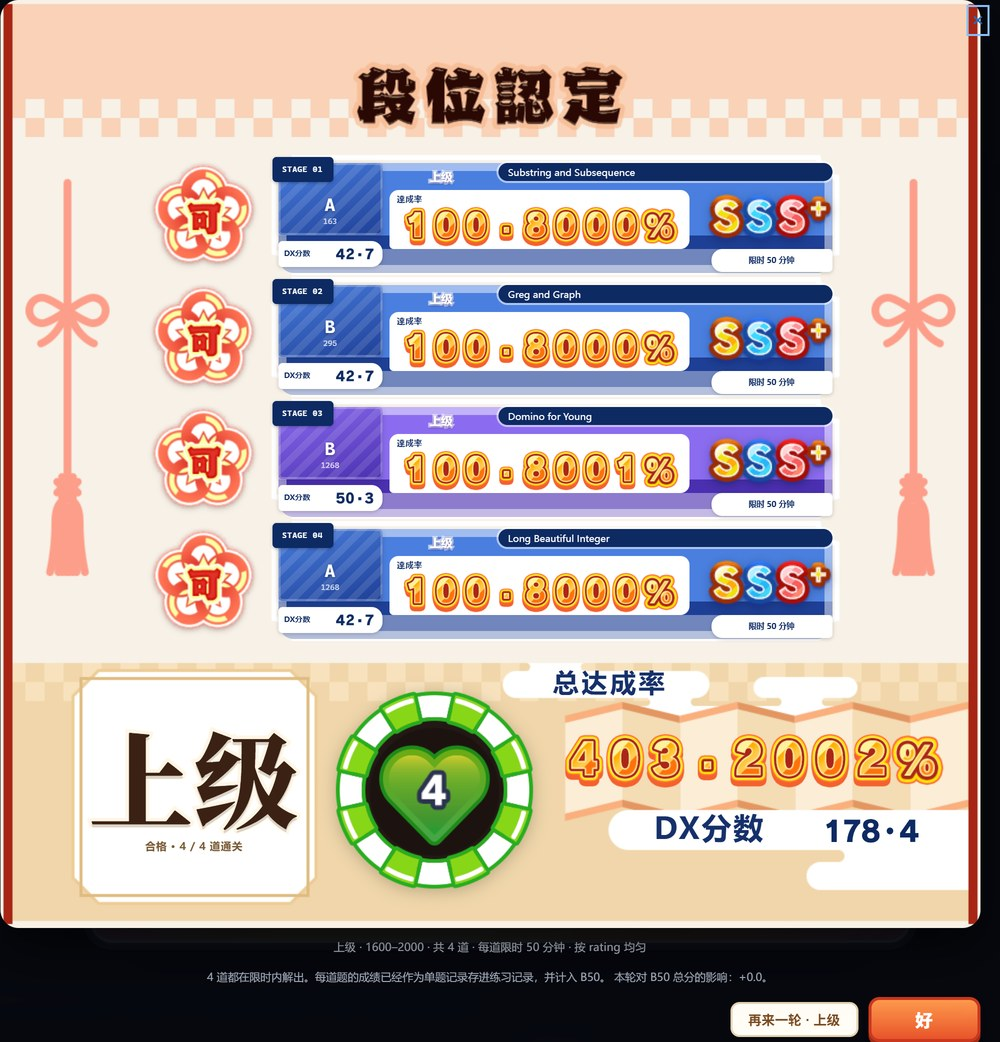
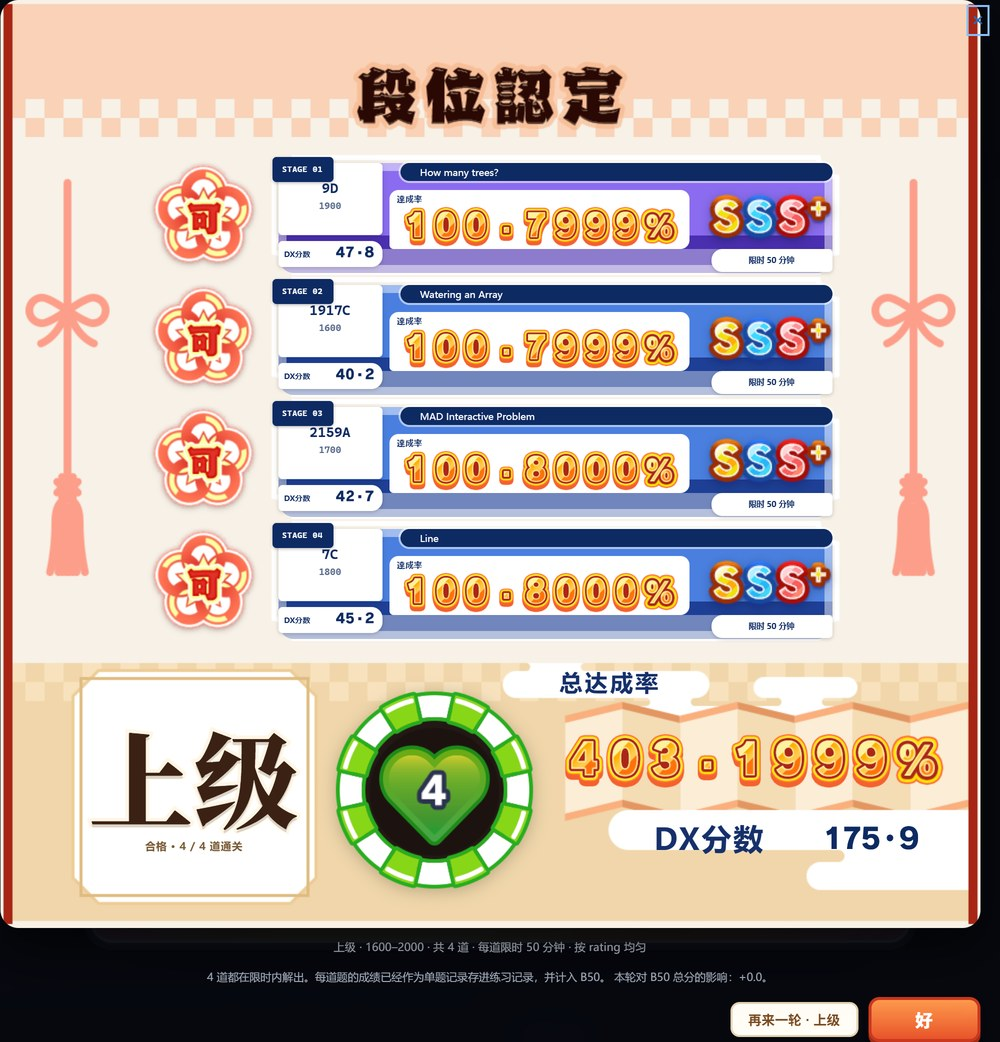
feat: rebuild the dan card the way the original is built
对着官方那张结算图把逐题卡重排了一遍：

- **删掉档位名牌**（原来写「上级」「初级」那一格）。官方那格烘的是难度名（`MASTER 大師`），
  我们这边对应的档位名在同一张卡上跟题号、达成率、单题 rating 重复，而且占掉半个标题条。
  标题条因此从 `x 220` 左移到 `x 122`、宽度 334→432，一路铺到边框右端（122+432=554）。
- **曲绘槽换成题号牌**：上行写完整题号（`1554C` = 场次 + 小问，原来只写一个小问字母，
  一屏四张卡看不出是哪道题），下行写这题在 CF 上的 rating（`dan_stages.difficulty`）。
  原来槽里是档位色渐变 + 斜条纹，一屏四张就是四块看不懂的色块 —— 现在就是一块白牌。
- **小数点**：白字族里根本没有句点这一格（`[13]` 是中黑点、`[12]` 是逗号），照它排出来就是
  「断字符」。改成**借分数族 `[13]`** —— 那才是这套数字里真正的句点，官方「101.0000%」用的
  就是它。借字形按自己的格子高定比例、在本族格子里横向居中，一条公式，没有逐字表。
- **标签与数字的水平对齐**：两处 `DX分数` 都改成 `align-items: baseline`，数字那一侧由
  `numText` 的 `baseline` 选项补 `(1 − baseline) × 字高`（flex 认的基线是格子底边，而图集里
  数字的墨迹底线在格高的 `baseline` 处）。实测两边基线都落在同一条 y 上，不再靠手调的 -11px。
- `总达成率` 字号 26 → 23。

E2E 里那条「难度名牌只写名字一行」换成「档位名牌已删掉、标题条左移顶上去」与
「曲绘槽里写完整题号 + CF rating」两条断言。E2E / 像素探针 / 314 个单测全绿。

Changed region(s): [[0.279, 0.1536, 0.837, 0.6142], [0.651, 0.7063, 0.93, 0.8292], [0.558, 0.6449, 0.682, 0.6756]]

diff --git a/public/dan.js b/public/dan.js
@@ -665,20 +665,35 @@ const SCORE_INDEX = {
   '0': 0, '1': 1, '2': 2, '3': 3, '4': 4, '5': 5, '6': 6, '7': 7, '8': 8, '9': 9,
   '+': 10, '/': 11, '%': 12, '.': 13,
 };
+/** 白字族借用的小数点（分数族 `[13]`，见 NUM_FONTS 的说明）。 */
+const DECIMAL_GLYPH = { fill: 'num-score-blue', outline: '', atlas: [296, 392], cell: [74, 98], index: 13 };
 /**
  * 图集每格留了空白边（90p 那格 89px 宽、字形只有 63px），照格宽排字会读起来「一个字一个字
  * 分开」。官方是等距密排（字与字几乎贴上），所以每格按 `advance` 收回去一点，见 numText。
+ *
+ * `baseline`：数字墨迹底线在格高里的比例（量出来的）—— 旁边有小字标签时用它把两边按同一条
+ * 基线排（见 numText 的 `baseline` 选项）。
+ *
+ * `decimal`：**借来的小数点**。白字族里没有句点这一格 —— `[13]` 是中黑点（画在字高中线上）、
+ * `[12]` 是逗号，都不是小数点该有的样子（小字号下读出来像断字符）。分数族 `[13]` 才是这套
+ * 数字里真正的句点（方形、压在基线附近），官方达成率图里的「101.0000%」用的就是它。
  */
 const NUM_FONTS = {
-  n26: { fill: 'num-26p', outline: 'num-26p-outline', atlas: [136, 160], cell: [34, 40], advance: 24, chars: NUM_INDEX },
-  n90: { fill: 'num-90p', outline: 'num-90p-outline', atlas: [356, 420], cell: [89, 105], advance: 67, chars: NUM_INDEX },
+  n26: {
+    fill: 'num-26p', outline: 'num-26p-outline', atlas: [136, 160], cell: [34, 40], advance: 24,
+    baseline: 0.825, chars: NUM_INDEX, decimal: DECIMAL_GLYPH,
+  },
+  n90: {
+    fill: 'num-90p', outline: 'num-90p-outline', atlas: [356, 420], cell: [89, 105], advance: 67,
+    baseline: 0.886, chars: NUM_INDEX, decimal: DECIMAL_GLYPH,
+  },
   // 分数数字是**三套**同布局不同颜色的图集（自带颜色，不再叠描边层）：
 // blue / gold / red，按达成率高低换。官方还有一张 `UI_NUM_Score_0001111_Base`，
 // 但那是一张**空图集**（整张几乎全透明，量下来 16 格一个字形都没有），不能用；
 // 「%」字形也正好只有蓝/金/红三张 —— 所以官方的档位就是三档，不是四档。
-'score-blue': { fill: 'num-score-blue', outline: '', atlas: [296, 392], cell: [74, 98], advance: 67, chars: SCORE_INDEX },
-  'score-gold': { fill: 'num-score-gold', outline: '', atlas: [296, 392], cell: [74, 98], advance: 67, chars: SCORE_INDEX },
-  'score-red': { fill: 'num-score-red', outline: '', atlas: [296, 392], cell: [74, 98], advance: 67, chars: SCORE_INDEX },
+'score-blue': { fill: 'num-score-blue', outline: '', atlas: [296, 392], cell: [74, 98], advance: 67, baseline: 0.949, chars: SCORE_INDEX },
+  'score-gold': { fill: 'num-score-gold', outline: '', atlas: [296, 392], cell: [74, 98], advance: 67, baseline: 0.949, chars: SCORE_INDEX },
+  'score-red': { fill: 'num-score-red', outline: '', atlas: [296, 392], cell: [74, 98], advance: 67, baseline: 0.949, chars: SCORE_INDEX },
 };
 const NUM_COLS = 4;
 /** 达成率末尾那个大「%」字形：官方按分数分色，蓝/金/红三张。 */
@@ -734,6 +749,10 @@ const DX_NUM_COLOR = '#0d2a63';
  *
  * 排版就一件事：**一个字形一格**，格子之间按 `advance` 等距。小数点（含逗号、加号这些）
  * 跟数字走同一条路 —— 它本来就是图集里的一格，官方也是这么排的，别为它开小灶。
+ *
+ * `opts.baseline`：把整块数字往下补 `(1 − baseline) × 字高`。旁边有小字标签、两边用
+ * `align-items: baseline` 排的时候要用它 —— flex 认的基线是这一格的**底边**，而图集里数字的
+ * 墨迹底线在格高的 `baseline` 处，不补这一下，数字就会浮在标签上面。
  */
 const NUM_OUTLINE_COLOR = '#2b3350';
 function numText(text, fontKey, height, color, opts = {}) {
@@ -743,6 +762,10 @@ function numText(text, fontKey, height, color, opts = {}) {
   wrap.setAttribute('role', 'img');
   wrap.setAttribute('aria-label', text);
   wrap.style.height = `${height}px`;
+  if (opts.baseline) {
+    wrap.style.position = 'relative';
+    wrap.style.top = `${((1 - font.baseline) * height).toFixed(2)}px`;
+  }
   const chars = [...text];
   if (opts.trim !== false) {
     // 图集每格右边都留了空（分数族格宽 74、字形只有 60 左右），照格宽排会把一串数字
@@ -753,7 +776,10 @@ function numText(text, fontKey, height, color, opts = {}) {
     const cell = el('i', 'dan-num-char');
     cell.style.height = `${height}px`;
     if (index === chars.length - 1) cell.classList.add('dan-num-last');
-    const idx = font.chars[ch];
+    // 本族没有这一格时借一个（目前只有小数点：白字族那格是中黑点，借分数族的句点）。
+    const borrowed = font.chars[ch] === undefined && ch === '.' && font.decimal;
+    const glyph = borrowed ? font.decimal : font;
+    const idx = borrowed ? glyph.index : font.chars[ch];
     if (idx === undefined) {
       cell.textContent = ch;
       cell.classList.add('dan-num-plain');
@@ -761,14 +787,16 @@ function numText(text, fontKey, height, color, opts = {}) {
       wrap.append(cell);
       return;
     }
-    const sx = (idx % NUM_COLS) * font.cell[0];
-    const sy = Math.floor(idx / NUM_COLS) * font.cell[1];
-    const size = `${font.atlas[0] * scale}px ${font.atlas[1] * scale}px`;
-    const pos = `${-sx * scale}px ${-sy * scale}px`;
+    // 借来的字形按**自己**的格子高定比例（保持形状比例），再在本族格子里横向居中。
+    const gs = height / glyph.cell[1];
+    const sx = (idx % NUM_COLS) * glyph.cell[0];
+    const sy = Math.floor(idx / NUM_COLS) * glyph.cell[1];
+    const size = `${glyph.atlas[0] * gs}px ${glyph.atlas[1] * gs}px`;
+    const pos = `${-sx * gs + (font.cell[0] * scale - glyph.cell[0] * gs) / 2}px ${-sy * gs}px`;
     cell.style.width = `${font.cell[0] * scale}px`;
-    if (font.outline && opts.outline !== false) {
+    if (glyph.outline && opts.outline !== false) {
       const outline = el('b', 'dan-num-outline');
-      const url = `url(/assets/maimai/${font.outline}.png)`;
+      const url = `url(/assets/maimai/${glyph.outline}.png)`;
       outline.style.setProperty('background-color', NUM_OUTLINE_COLOR);
       for (const prop of ['mask-image', '-webkit-mask-image']) outline.style.setProperty(prop, url);
       for (const prop of ['mask-size', '-webkit-mask-size']) outline.style.setProperty(prop, size);
@@ -777,7 +805,7 @@ function numText(text, fontKey, height, color, opts = {}) {
       cell.append(outline);
     }
     const fill = el('b', 'dan-num-fill');
-    const fillUrl = `url(/assets/maimai/${font.fill}.png)`;
+    const fillUrl = `url(/assets/maimai/${glyph.fill}.png)`;
     if (color) {
       // 白字族是纯白剪影：当遮罩 + 纯色背景 = 想染什么色就什么色（游戏里也是运行时染色）。
       fill.style.setProperty('background-color', color);
@@ -886,32 +914,33 @@ function openRunResult(run) {
     dxBox.append(el('small', 'dan-track-dxlabel', 'DX分数'));
     // 这一格是**小字**：不叠描边层 —— 官方那处也是干净的深蓝数字，叠上去只会糊。
     const dx = stage.rating === null
-      ? numText('—', 'n26', 16, DX_NUM_COLOR, { outline: false })
-      : numText(String(stage.rating.toFixed(1)), 'n26', 16, DX_NUM_COLOR, { outline: false });
+      ? numText('—', 'n26', 16, DX_NUM_COLOR, { outline: false, baseline: true })
+      : numText(String(stage.rating.toFixed(1)), 'n26', 16, DX_NUM_COLOR, { outline: false, baseline: true });
     dx.classList.add('dan-track-dxnum');
     dxBox.append(dx);
     item.append(frame);
     item.append(dxBox);
 
-    // 官方的 JacketImage_S 那一格：我们抽的是 CF 题、没有曲绘，槽里放按档位色上色的题号。
+    // 官方的 JacketImage_S 那一格：我们抽的是 CF 题、没有曲绘，槽里放**题号**（`1554C`：
+    // 场次 + 小问）与这题在 CF 上的 rating。原来那版把场次和小问拆成两行、题号只留个小问
+    // 字母，一屏四张卡看不出是哪道题 —— 现在一行题号、一行 rating。
     const [contest, index] = (stage.problemId ?? '').split(':');
     const jacket = el('div', 'dan-track-jacket');
-    jacket.append(el('b', '', index || '?'), el('small', '', contest || '未开始'));
+    jacket.append(
+      el('b', '', stage.problemId ? `${contest}${index}` : '未开始'),
+      // 题号没下发（还没开始做）时 rating 也不写：那边 `problemId` 是 null，这一格照同一口径。
+      el('small', '', stage.problemId && stage.difficulty != null ? String(stage.difficulty) : '—'),
+    );
     item.append(jacket);
 
     // 官方的 JaketTrack 那一格（行首那块小牌）：放第几道。
     // **排在曲绘槽之后 append**：官方那张小牌就在 MusicJacket_Base 里、压在曲绘槽左上角上。
     item.append(el('span', 'dan-track-no', `STAGE ${String(stage.index).padStart(2, '0')}`));
 
-    // 官方的难度名牌那一格烘的是难度名（MASTER 大師…）。我们这边对应的是**档位名**：
-    // 这一格原来写「CF 分 + 分数分组」两行，可这题的成绩旁边已经写了达成率与单题分，
-    // 再把 1700 / 1600–1899 摆上来只是重复，所以只留名字一行。
-    const diffTab = el('span', 'dan-track-diff');
-    diffTab.append(el('b', '', run.tierName));
-    item.append(diffTab);
-
     // 题目名写在标题条上（两者坐标相同，都是边框内坐标）。抽到的题在本人提交里还没有
     // 记录时，退回题号 —— 空着比写「—」更难看，题号至少能对上。
+    // 原来标题条左边还有一格**档位名牌**（写「上级」「初级」），删掉了：同一张卡上达成率、
+    // 单题分、题号已经把信息说全，档位名重复而且占了半个标题条 —— 标题条因此一路铺到右边。
     frame.append(el('span', 'dan-track-name', stage.title ?? stage.problemId ?? '—'));
 
     // 评级用官方徽章；超时／中断／未开始没有评级，退回文字。
@@ -949,7 +978,7 @@ function openRunResult(run) {
   field(dialog, '.dan-total-num').replaceChildren(
     scored.length ? achievementNumber(totalAchievement, 60) : numText('—', 'n90', 60, DX_NUM_COLOR));
   field(dialog, '.dan-dxscore-num').replaceChildren(
-    numText(run.totalRating === null ? '—' : String(run.totalRating.toFixed(1)), 'n90', 30, DX_NUM_COLOR, { outline: false }));
+    numText(run.totalRating === null ? '—' : String(run.totalRating.toFixed(1)), 'n90', 30, DX_NUM_COLOR, { outline: false, baseline: true }));
 
   const deltas = run.stages.map((stage) => stage.comparison?.ratingDelta).filter((value) => typeof value === 'number');
   let note = run.status === 'cleared'

diff --git a/public/dan.css b/public/dan.css
@@ -238,9 +238,10 @@
     linear-gradient(180deg, var(--tc1, #8b6cf0) 0 66%, var(--tc2, #4a2fb0) 66% 100%);
 }
 /* 边框里的组件用**边框内坐标**（= 行内坐标 − 11，因为边框自己在行内 (11,11)）。 */
-/* 深蓝标题条（官方烘在边框里的那一条）+ 官方那圈浅色描边，题目名写在里面。 */
+/* 深蓝标题条（官方烘在边框里的那一条）+ 官方那圈浅色描边，题目名写在里面。
+ * 原来左边 122..226 是**档位名牌**那一格，删掉之后标题条一路铺到边框右端（122+432=554）。 */
 .dan-track-titlebar {
-  position: absolute; left: 220px; top: 0; width: 334px; height: 18px;
+  position: absolute; left: 122px; top: 0; width: 432px; height: 18px;
   border-radius: 9px; background: #0d2a63; box-shadow: 0 0 0 2px #ffffff8c;
 }
 .dan-track-no {
@@ -248,41 +249,33 @@
   font-family: var(--mono); font-size: .58rem; font-weight: 700; letter-spacing: .04em;
   color: #fff; background: #0d2a63; border-radius: 4px; box-shadow: 0 1px 3px #00000047;
 }
-/* 官方的曲绘槽（JacketImage_S）。我们抽的是 CF 题、没有曲绘 —— 纯白那一版在满屏深色里
- * 就是一块洞，所以槽里换成**按这一行档位色上色**的题号牌：色块本身也把档位说出来。
+/* 官方的曲绘槽（JacketImage_S）：我们抽的是 CF 题、没有曲绘 —— 槽里放题号本身
+ * （`1554C` 这种「题号 + 小问」的写法）与这题在 CF 上的 rating。原来那一版往里塞了
+ * 档位色渐变 + 斜条纹，一屏四张卡就是四块看不懂的色块，现在就是一块白牌。
  * 左上角跟着边框的圆角（方角会戳到边框圆角外面去）。 */
 .dan-track-jacket {
   position: absolute; left: 11px; top: 11px; width: 104px; height: 72px;
   border-radius: 16px 4px 4px 4px; display: flex; flex-direction: column;
-  justify-content: flex-end; align-items: center; gap: 1px; padding-bottom: 7px;
-  background:
-    repeating-linear-gradient(135deg, #ffffff1c 0 7px, #ffffff00 7px 14px),
-    linear-gradient(160deg, var(--tc1, #8b6cf0), var(--tc2, #4a2fb0));
-  box-shadow: inset 0 0 0 2px #ffffff3d, 0 2px 6px #0000002e;
+  justify-content: center; align-items: center; gap: 4px; padding-bottom: 2px;
+  background: #fff; box-shadow: inset 0 0 0 2px #ffffff3d, 0 2px 6px #0000002e;
 }
-.dan-track-jacket b { font-family: var(--mono); font-size: 1.3rem; font-weight: 900; line-height: 1; color: #fff; text-shadow: 0 1px 3px #00000059; }
-.dan-track-jacket small { font-family: var(--mono); font-size: .56rem; color: #ffffffc9; }
+.dan-track-jacket b {
+  font-family: var(--mono); font-size: 1rem; font-weight: 900; line-height: 1; color: #0d2a63;
+}
+.dan-track-jacket small { font-family: var(--mono); font-size: .68rem; font-weight: 700; color: #5a6a8c; }
 /* 单题 DX 分数（= 该题算出的 rating）。跟着题目放左边，与右边的限时白牌左右配平；
- * 圆角方向照官方那块牌（平的一头贴边框，圆的一头朝里）。 */
+ * 圆角方向照官方那块牌（平的一头贴边框，圆的一头朝里）。
+ * `align-items: baseline`：小字标签与数字按**同一条基线**排（数字那一侧由 numText 的
+ * `baseline` 选项按图集基线补一个相对偏移，见 dan.js）。 */
 .dan-track-dxbox {
   position: absolute; left: 11px; top: 89px; width: 104px; height: 26px;
-  border-radius: 4px 11px 11px 4px; background: #fff; display: flex; align-items: center; padding: 0 6px;
+  border-radius: 4px 11px 11px 4px; background: #fff; display: flex; align-items: baseline; padding: 0 6px;
   box-shadow: 0 1px 4px #00000033;
 }
 .dan-track-dxlabel { flex: none; font-size: .54rem; font-weight: 900; color: #0d2a63; }
 .dan-track-dxnum { margin-left: auto; }
-/* 难度名牌那一格：官方烘的是难度名 + Lv。这一格原来写「CF 分 + 分数分组」两行，
- * 但同一张卡上达成率与单题分已经给了具体分数，再把分数摆一遍只是重复 —— 只留名字一行。 */
-.dan-track-diff {
-  position: absolute; left: 122px; top: 11px; width: 104px; height: 27px;
-  display: flex; align-items: center; justify-content: center; overflow: hidden;
-}
-.dan-track-diff b {
-  font-size: .82rem; font-weight: 900; line-height: 1; color: #fff; white-space: nowrap;
-  -webkit-text-stroke: 3px #ffffffa0; paint-order: stroke fill; text-shadow: 0 1px 3px #2a1155a6;
-}
 .dan-track-name {
-  position: absolute; left: 220px; top: 0; width: 334px; height: 18px; padding: 0 10px;
+  position: absolute; left: 132px; top: 0; width: 412px; height: 18px; padding: 0 10px;
   font-size: .68rem; line-height: 18px; color: #fff;
   overflow: hidden; text-overflow: ellipsis; white-space: nowrap;
 }
@@ -355,12 +348,12 @@
 /* 总达成率：标签写进底图预留的白格，大数字落在下面的色带上，右端对齐 x 945
  * （与下面那条 DX 分数白牌的右端同一条边）。 */
 .dan-total-row { position: absolute; inset: 0; }
-/* 「总达成率」四个字写在白格**偏左**的位置（官方那四个字不在白格正中），字号也压到 26。
+/* 「总达成率」四个字写在白格**偏左**的位置（官方那四个字不在白格正中），字号压到 23。
  * 底图这块白实测是 x 503..708（右边那截 753..856 被折页斜边切开），所以按 503..708 居中。 */
 .dan-total-label {
   position: absolute; left: 503px; top: 663px; width: 354px; height: 52px;
   display: grid; place-items: center; padding-right: 140px; padding-bottom: 12px;
-  font-size: 26px; font-weight: 800; letter-spacing: .1em; color: #16306b;
+  font-size: 23px; font-weight: 800; letter-spacing: .1em; color: #16306b;
 }
 .dan-total-num {
   position: absolute; left: 490px; top: 727px; width: 460px; height: 66px;
@@ -371,14 +364,9 @@
  * 所以文字靠上排（顶到 y 816），不跟着整块矩形居中。 */
 .dan-dxscore-row {
   position: absolute; left: 608px; top: 810px; width: 360px; height: 80px;
-  display: flex; align-items: flex-start; justify-content: space-between; padding: 6px 46px 0;
+  display: flex; align-items: baseline; justify-content: space-between; padding: 6px 46px 0;
 }
-.dan-dxscore-label {
-  font-size: 30px; font-weight: 800; letter-spacing: .06em; color: #16306b;
-  /* 和右边的分数数字对齐：数字墨迹底（含烘焙投影）在 y 842，CJK 字这一侧基线落在 853，
-   * 差 11px —— 把标签往上顶 11px，两边底线就压在同一条线上。 */
-  margin-top: -11px;
-}
+.dan-dxscore-label { font-size: 30px; font-weight: 800; letter-spacing: .06em; color: #16306b; }
 .dan-dxscore-num { display: flex; align-items: center; }
 
 /* 说明与按钮在成品屏之外（深色底上），不往那张纸上塞东西。 */

diff --git a/docs/dan.md b/docs/dan.md
@@ -164,12 +164,14 @@ active ──四道全部通关──→ cleared（通过）
 - **底图上那几块白不补**：下半部留了三处**挖白的空面板** —— 量下来是「标签白格」`(503,663) 354×50`（中间被折页的斜边切开，上半段 `503–708`、下半段被切成两小段）与「DX 分数白牌」`(608,810) 360×80`（左端还有个空着的圆白圆头）。那是原作留给运行时文字的位置，运行时会被盖住。我们一开始照「露白像空框」的思路用 `scripts/patch-maimai-result-band.py` 把这几块续画填掉了 —— 那是错的：官方版式本来就要在这三处写字，填掉等于自己把位置抹了。现在补丁脚本已删、底图回到原始素材，标签与大数字就摆回这三格（见下「底部色带」）。
 - **组件按官方坐标拼**：底图之上每一件都放在原作预制体（`Process/Course/CourseResultProcess`、逐题行的 `UI_CMN_KOP_TrackData`）量出来的位置上，尺寸也照官方：逐题行 `x 267–843`、第 1 行 `y 152`、行距 `122`（576 宽 = 官方 640 × 0.9）；行首的印是 `108×108`（官方原始尺寸，不是缩过的）；达成率数字字高 `44`；曲绘槽 `104×72`（官方 `JacketImage_S` 113×113 × 0.9 的位置）。这些数字写在 `public/dan.css` 顶部注释里，`scripts/dan-settlement-e2e.mjs` 里有一条断言直接量它们（`行内组件都待在底板里`），底部白框、白牌的坐标也是拿底图逐行数像素量出来的。
 - **逐题卡**：每道一张。左侧一枚原作印（`UI_DNM_Icon_Result_01` 可 / `_02` 不可，未抽到的变灰）；右侧横卡用原作底板 `UI_DNM_Result_musicBase_01` 撑起来，上面再压一层**乐曲边框** —— 版式照官方 `UI_CMN_RSL_KopMBase_*`（640×140）逐像素量出来画：外圈浅色环 + 主色场 + 底部浅色带 + 左侧曲绘槽 + 深蓝标题条（带官方那圈白边）+ 白色达成率框 + 深蓝行首小牌（官方 `JaketTrack`）。**颜色不烘死**：官方那五张（BSC/ADV/EXP/MST/MST_Re）把难度色和难度名都印在图里，套不上我们自己的 CF 分档，所以边框按 `--tc1/--tc2` 上色（`cfRatingColor(...).tone` → `TRACK_TONE`）。
-- **信息分配改了官方的排法**：官方右边一列挤了四件（评级 / 难度分 / 限时 / DX分数），四道并排看下来就是一堵字墙。现在左边是「跟题目走的东西」—— 曲绘槽换成**按档位色上色**的题号牌（官方那格是白底，纯白在满屏深色里就是一块洞），下面挂一块白牌写这道题的单题 rating（`DX分数`）；难度名牌那一格写**档位名**（官方烘的是 `MASTER 大師` 这类难度名，我们这边对应的就是档位）；右边只留**评级徽章**与这道题的限时白牌。达成率大数字 + 官方彩色「%」字形仍在中间，数字**贴着白框左边**排（官方就是这样，不是右对齐）。
+- **信息分配改了官方的排法**：官方右边一列挤了四件（评级 / 难度分 / 限时 / DX分数），四道并排看下来就是一堵字墙。现在左边是「跟题目走的东西」—— 曲绘槽换成一块**白牌**（官方那格是曲绘）：上行是完整题号（`1554C` 这种「场次 + 小问」），下行是这题在 CF 上的 rating；下面挂一块白牌写这道题的单题 rating（`DX分数`）；右边只留**评级徽章**与这道题的限时白牌。达成率大数字 + 官方彩色「%」字形仍在中间，数字**贴着白框左边**排（官方就是这样，不是右对齐）。
+  - 官方那一格难度名牌（烘的是 `MASTER 大師` 这类难度名）**整个删掉了**：同一张卡上题号、达成率、单题 rating 已经把信息说全，再写一遍档位名既重复、又占掉半个标题条。标题条因此从 `x 122` 一路铺到边框右端（`122+432=554`）。
 - **评级徽章用游戏内那套**：`UI_GAM_Rank_*`（`D`/`C`/`B`/`BB`/`BBB`/`A`/`AA`/`AAA`/`S`/`S+`/`SS`/`SS+`/`SSS`/`SSS+` 单级各一张，源图紧裁 36–110 × 42–44）。早先用的是 `UI_CMN_TabTitle_Rank_*` —— 那是**页签标题**用的区间图：AAA 那张画的是「A～AAA」、BBB 那张是「～BBB」，摆在逐题卡片上根本不是那一级的评级，而且它没有 D/C/B/BB/A/AA 这些级，低分全挤在同一张牌上。换过来之后 14 级一级一张，框按 `132×52` 按高度贴齐。
-- **底部色带**：左下白框那一格原作放**段位名牌**，我们发档位不发段位名，就把档位名（`初级`/`中级`/`上级`/`超上级`/…）照原版那样写进去 —— 深棕重字 + 很淡的米白描边（`-webkit-text-stroke` + `paint-order: stroke fill`）+ 一点投影。原版那两个字是**烘死的毛笔字贴图**（`UI_DNM_DaniTitle_*` 只有日文段位名，套不上我们的档位），只能用系统字体近似：字体栈取 `Noto Serif SC` 的 **900** 字重（次选系统宋体/楷体那一类衬线），SimSun 那种细宋笔画只有原版一半粗。名字超过两个字自动缩号（`data-len`）。名字下面一行小字写「合格 · 4 / 4 道通关」。中间是原作的剩余生命底盘（`UI_DNM_Base_Life_01` 绿 / `_03` 红），照官方放大到 `200×200`，心里那个数字是「四道里过了几道」（数字图集里没有「/」字形，退回普通文字会被两边数字的描边吃掉，所以不写 `4/4`）。右边两块**照底图预留的白格**摆：`总达成率` 写进上面那格白（实测白区是 `x 503..708`，右边那截 `753..856` 被折页斜边切开，所以四个字按 `503..708` **居中**、字号 26），官方数字图集拼的大数字落在下面的色带上（`y 727`、字高 66，右端对齐 `x 950`）；`DX分数` 与它的数字写进下面那条白牌（`(608,810) 360×80`，标签在左、数字在右，两端各留 46px，左端那个空的白圆头按原样空着，文字靠上排 —— 白牌下半截也被折页切掉一块），两处都是和标题条同一个深蓝 `#16306b`。
+- **底部色带**：左下白框那一格原作放**段位名牌**，我们发档位不发段位名，就把档位名（`初级`/`中级`/`上级`/`超上级`/…）照原版那样写进去 —— 深棕重字 + 很淡的米白描边（`-webkit-text-stroke` + `paint-order: stroke fill`）+ 一点投影。原版那两个字是**烘死的毛笔字贴图**（`UI_DNM_DaniTitle_*` 只有日文段位名，套不上我们的档位），只能用系统字体近似：字体栈取 `Noto Serif SC` 的 **900** 字重（次选系统宋体/楷体那一类衬线），SimSun 那种细宋笔画只有原版一半粗。名字超过两个字自动缩号（`data-len`）。名字下面一行小字写「合格 · 4 / 4 道通关」。中间是原作的剩余生命底盘（`UI_DNM_Base_Life_01` 绿 / `_03` 红），照官方放大到 `200×200`，心里那个数字是「四道里过了几道」（数字图集里没有「/」字形，退回普通文字会被两边数字的描边吃掉，所以不写 `4/4`）。右边两块**照底图预留的白格**摆：`总达成率` 写进上面那格白（实测白区是 `x 503..708`，右边那截 `753..856` 被折页斜边切开，所以四个字按 `503..708` **居中**、字号 23），官方数字图集拼的大数字落在下面的色带上（`y 727`、字高 66，右端对齐 `x 950`）；`DX分数` 与它的数字写进下面那条白牌（`(608,810) 360×80`，标签在左、数字在右，两端各留 46px，左端那个空的白圆头按原样空着，文字靠上排 —— 白牌下半截也被折页切掉一块），两处都是和标题条同一个深蓝 `#16306b`。
 - 数字不是 CSS 字体画的：**官方数字图集逐格切**。图集是规整 4×4 网格，格子由同名 Sprite 定 rect；白字族每格拆成「官方 `_Outline` 剪影当遮罩上深色（描边）+ 官方填充图集」两层 —— 图集本身是**纯白剪影**（游戏运行时才染色），background 层没法单独染色，所以用两个真元素叠。这套「剪影 + 运行时染色」的能力也直接用在了 DX 分数上（染成帧上的深蓝 `#0d2a63`，见下）。对照表（一张张看出来的）：白字族 `[0-9]` `[10]'+'` `[11]'-'` `[12]','` `[13]'·'`（居中的圆点，就是这套字体的小数点）`[14]'%'`；分数族 `[10]'+'` `[11]'/'` `[12]'%'` `[13]'.'`。
 - **数字怎么排**：**一个字形一格，格子之间按 `advance` 等距** —— 就是图集自己的排法，小数点、逗号这些跟数字走同一条路，不开特例。唯一要做的是把每格右边的留白收掉：图集格宽比字形宽（分数族格宽 74、字形只有 60–63），照格宽排会读成「一个字一个字分开」，所以每格收回 `格宽 − advance`（分数族 74→67、90p 89→67、26p 34→24，见 `NUM_FONTS.advance`），最后一格不收回。
-  - 这套字形的小数点**画在字高中线上**（白字族 `[13]` 就是那个居中方块，26p 那张只有 8×8、`y 18..25`），不是落在基线上的点 —— 官方那张达成率图里的「101.0000%」用的也是同一个居中方块，所以 DX 分数（单题 rating / DX 总分）的小数点直接用图集这一格，不自画。
+  - 白字族里**没有句点这一格**：`[13]` 是中黑点（画在字高中线上，26p 那张只有 8×8、`y 18..25`）、`[12]` 是逗号，摆在小字号里都像断字符。所以 DX 分数（单题 rating / DX 总分）的小数点**借分数族那一格** —— `[13]` 才是这套数字里真正的句点（方形、压在基线附近），官方那张达成率图里的「101.0000%」用的就是它。借来的字形按自己的格子高定比例、在本族格子里横向居中，就一条公式，不开逐字表。
+  - 旁边有小字标签时（两处 `DX分数`）用 `numText` 的 `baseline` 选项：整块数字往下补 `(1 − baseline) × 字高`。flex 认的基线是这一格的**底边**，而图集里数字的墨迹底线在格高的 `baseline` 处（26p 0.825 / 90p 0.886），不补这一下数字就浮在标签上面；两处都用 `align-items: baseline` 排，实测标签与数字的基线都落在同一条 y 上。
   - 末尾那个「%」是独立图片（80×80、墨迹 `x 8..70`，比图集里的 `%` 格大一号），按 `<img>` 直排会在数字和 `%` 之间多出一截，所以放大到 `1.1 × 字高` 再用负边距把左边的留白抵掉。
 - **达成率按分数换色**：官方那套 `UI_NUM_Score_0001111_{Blue,Gold,Red}` 是同布局的三色分数图集（自带颜色、不叠描边），末尾的大「%」字形 `UI_RSL_Score_Per_{Blue,Gold,Red}` 同样三色 —— 所以达成率的档位就是三档：`≥100%` 金（SSS/SSS+）、`≥97%` 蓝（S～SS+）、再低红。`scoreTone()` 在 `public/dan.js` 里，换色在同一条 `achievementNumber()` 里做。**官方那张 `UI_NUM_Score_0001111_Base` 是一张空图集**（16 格里一个字形都没有，整张只有几列杂散像素），照它渲染出来就是一片看不见的灰影，别用。三档同时出现的样子：
 
